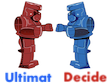
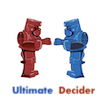
Updated card back image and have a couple of comments added for functions to prevent clicking on too many cards

diff --git a/client/src/components/MemoryMatchGame.vue b/client/src/components/MemoryMatchGame.vue
@@ -20,6 +20,7 @@ export default {
             shapes: ['circle', 'triangle', 'cross', 'star', 'square', 'crescent', 'hexagon', 'diamond'],    
             cards: [],
             flippedCards: [],
+            matchedCards: []
         }
     },
     mounted(){
@@ -28,8 +29,10 @@ export default {
 
         eventBus.$on("flipped-card", (card) => {
             this.flippedCards.push(card)
+            // this.checkCardFlipped(card)
+            // this.checkCard(card)
             if (this.flippedCards.length === 2) {
-                setTimeout(this.checkForMatch, 1000, this.flippedCards)
+                setTimeout(this.checkForMatch, 750, this.flippedCards)
             }
         })
     },
@@ -43,7 +46,7 @@ export default {
                     id: `${item}-a`,
                     imgUrl: `/assets/${item}.png`,
                     matched: false,
-                    cardBack: "/assets/cardBack.png"
+                    cardBack: "/assets/cardBack2.png"
                 }
                 const cardA = card; 
                 this.cards.push(cardA);
@@ -80,10 +83,45 @@ export default {
                 this.flippedCards = []
 
             } else {
-                
+               this.matchedCards.push(card1, card2)
                this.flippedCards = [] 
             }
-        }
+        },
+
+        // checkCardFlipped(selectedCard){
+        //     if (selectedCard.flipped = false){
+        //         for ( let card of this.cards){
+        //             if (card.id === selectedCard.id){
+        //                 card.flipped = true
+        //             }
+        //         }
+        //         this.flippedCards.push(selectedCard)
+        //     }
+        // },
+
+        // checkCard(currentCard) {
+        //     if (this.flippedCards.length !== 0){
+        //         for (let card of this.flippedCards) {
+        //             console.log(card);
+        //             if (card.id !== currentCard.id) {
+        //                 if (this.matchedCards !== 0){
+        //                     for (let card of this.matchedCards) {
+        //                         if (card.id !== currentCard.id) {
+        //                             this.flippedCards.push(currentCard)
+        //                         }
+        //                     }
+        //                 } else {
+        //                     this.flippedCards.push(currentCard)
+        //                 }
+        //             } else {
+        //                 this.flippedCards.push(currentCard)
+        //             }
+        //         }
+        //     } else {
+        //         this.flippedCards.push(currentCard)
+        //     }
+        // }
+        
         
     },
     components: {

diff --git a/client/src/components/Card.vue b/client/src/components/Card.vue
@@ -22,7 +22,6 @@ export default {
 
     methods: {
         makeCardFlipped(){
-            console.log('is clicked!')
             this.card.flipped = true
             eventBus.$emit("flipped-card", this.card)
         }
